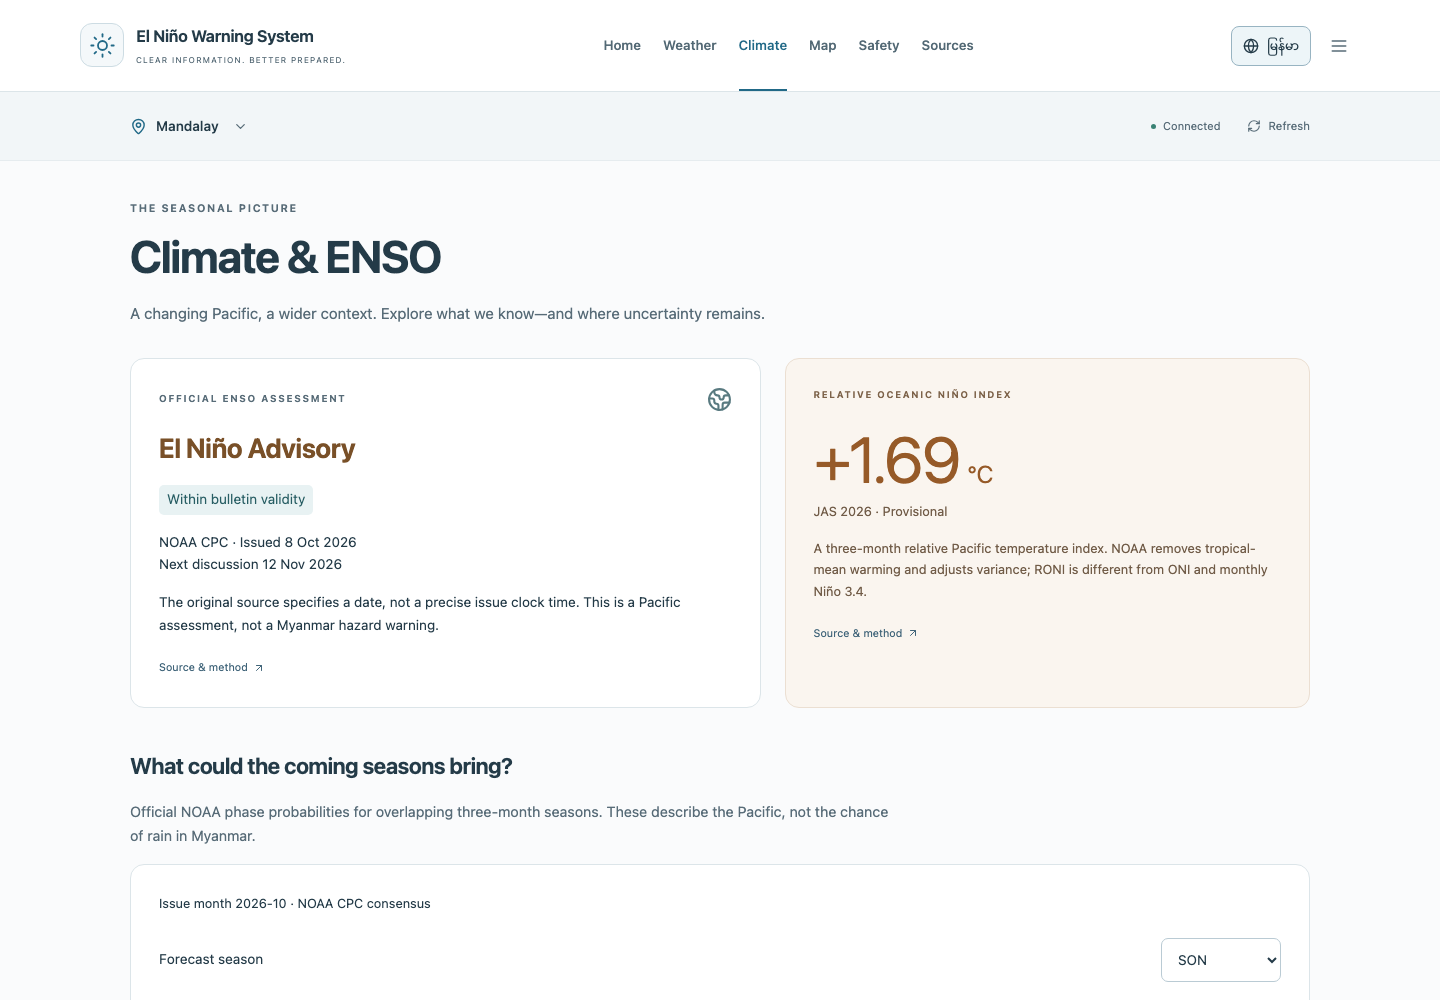
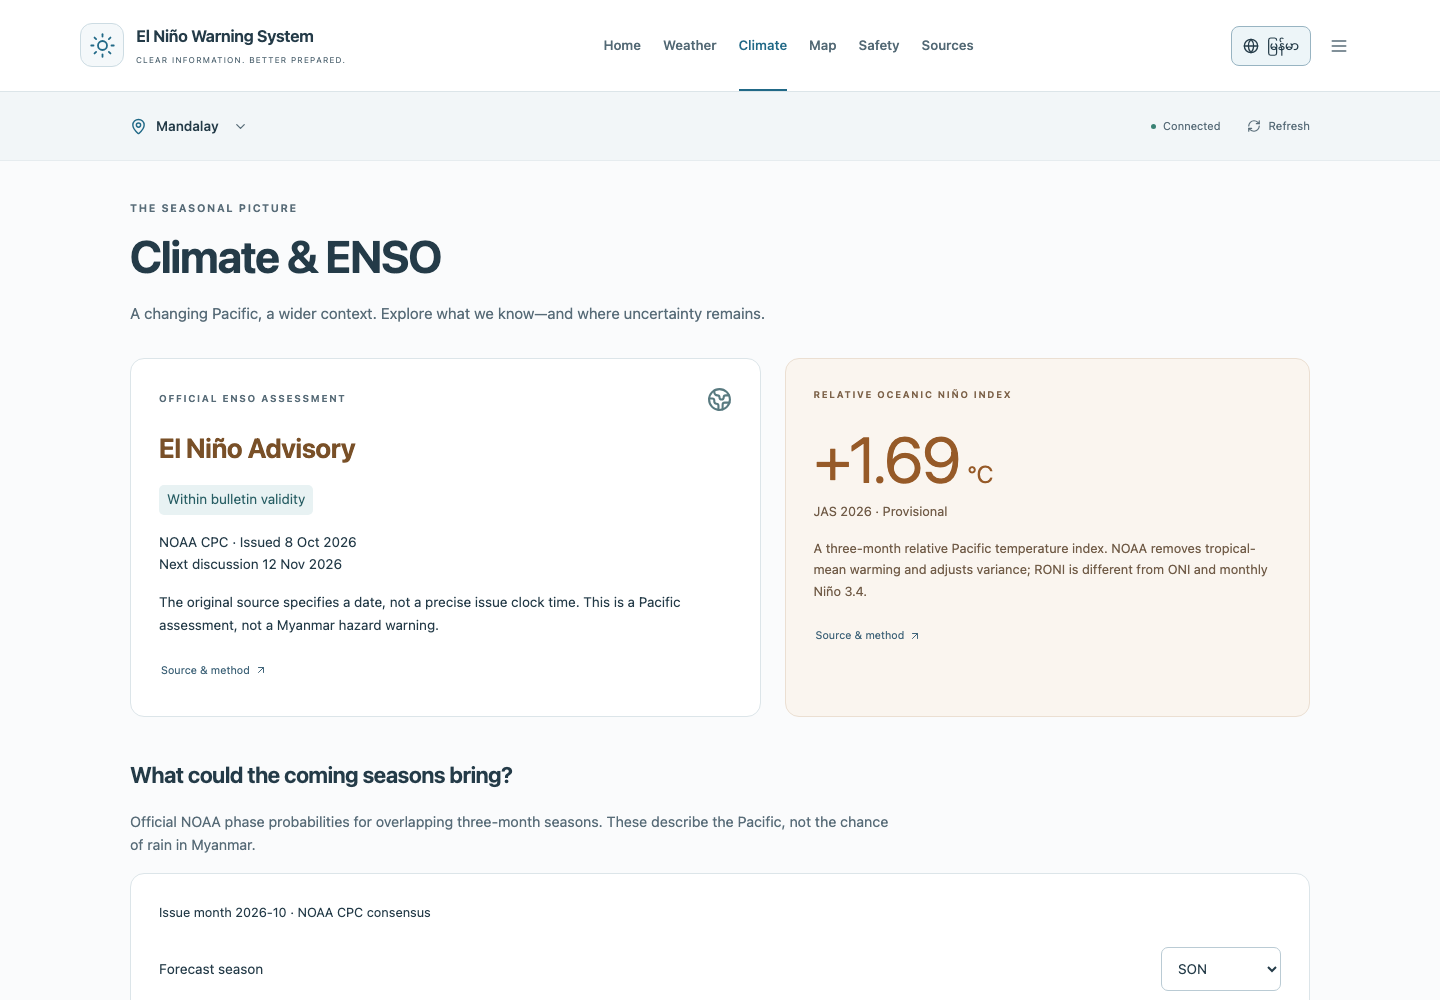
Give source links consistent accessible touch targets on every platform

diff --git a/src/styles/service.css b/src/styles/service.css
@@ -477,6 +477,8 @@ small,
 }
 .metric-source {
   display: inline-flex;
+  min-height: 36px;
+  padding: 5px 2px;
   align-items: center;
   gap: 5px;
   font-size: 0.67rem;
